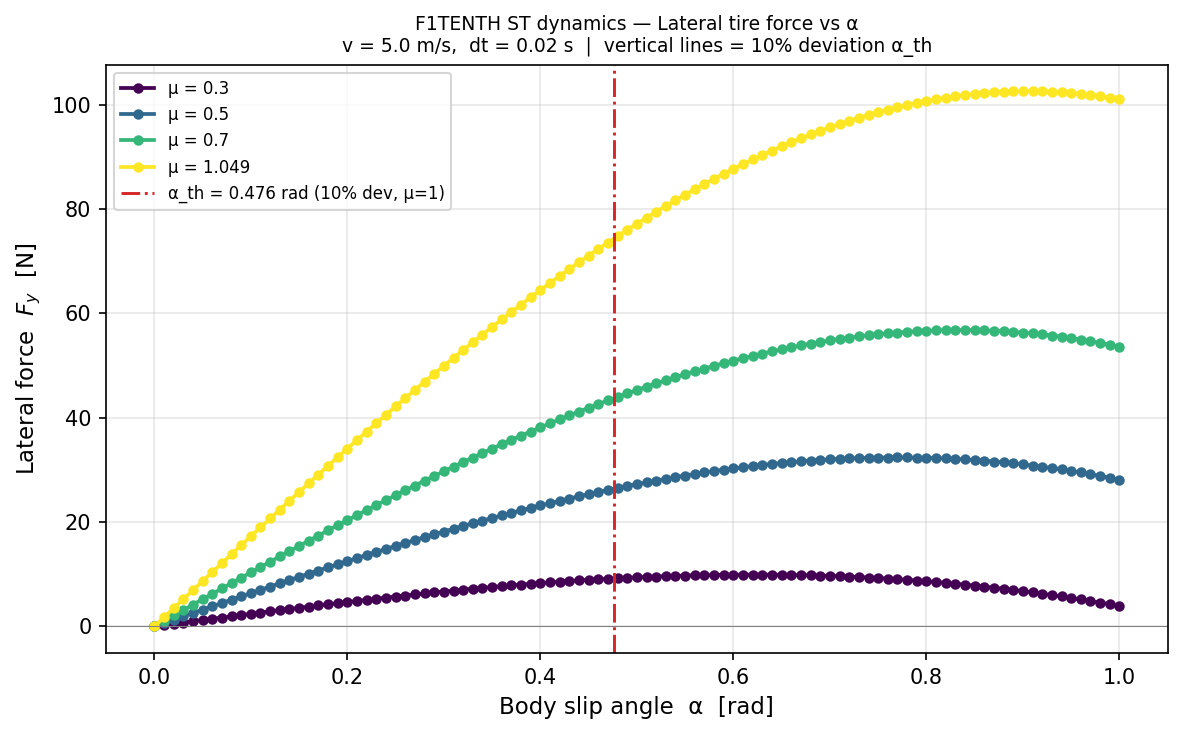
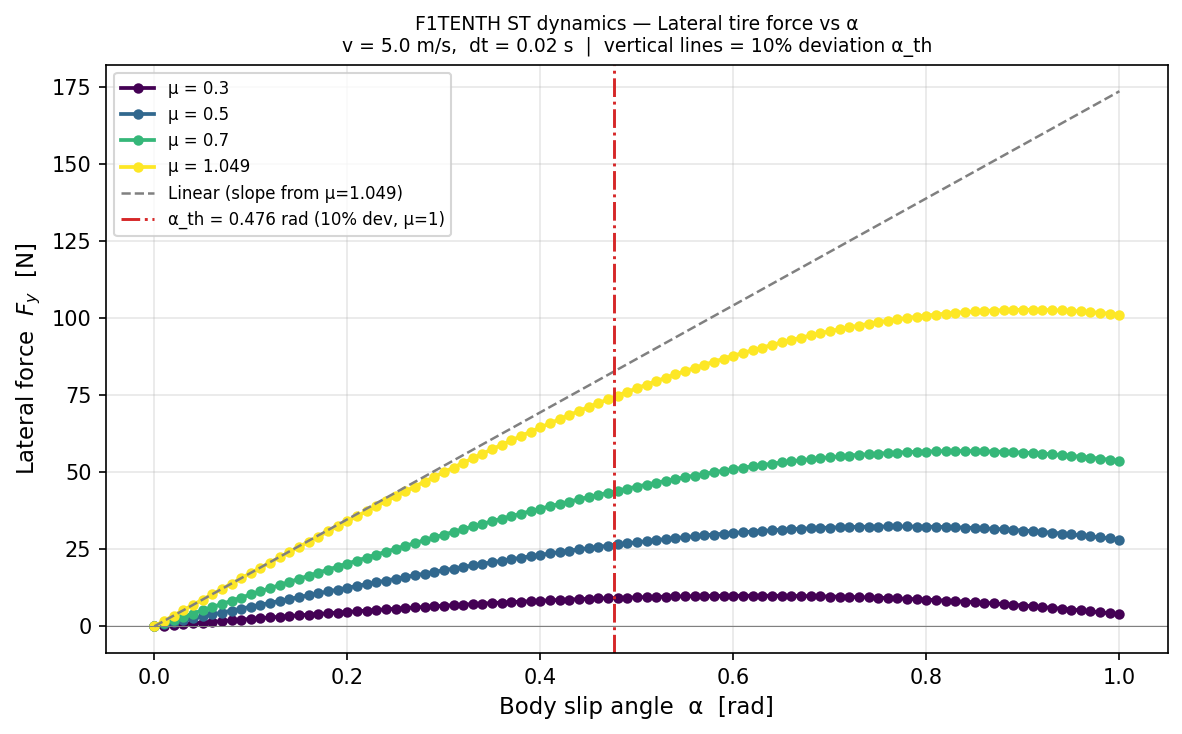
Final change to lateral vs alpha

diff --git a/plotting_code/plot_collect_tire_force_data.py b/plotting_code/plot_collect_tire_force_data.py
@@ -119,13 +119,17 @@ def main():
         ax.plot(alpha_values, F_y_arr, "o-", color=color, linewidth=1.8,
                 markersize=4, label=f"μ = {mu:.4g}")
 
-    # Find alpha_th for mu=1.0489: where F_y drops to 90% of its own linear tangent
+    # Linear tangent from the mu_ref curve (slope from first nonzero point)
     mu_ref = max(mu_values)
     F_y_ref = results[mu_ref]
     nonzero = alpha_values > 0
     slope_ref = F_y_ref[nonzero][0] / alpha_values[nonzero][0]
     F_y_lin_ref = slope_ref * alpha_values
 
+    ax.plot(alpha_values, F_y_lin_ref, "--", color="gray", linewidth=1.2,
+            label=f"Linear (slope from μ={mu_ref:.4g})")
+
+    # Find alpha_th for mu_ref: where F_y drops to 90% of its own linear tangent
     alpha_th = None
     for i in range(len(alpha_values)):
         if alpha_values[i] > 0 and F_y_lin_ref[i] > 0:
